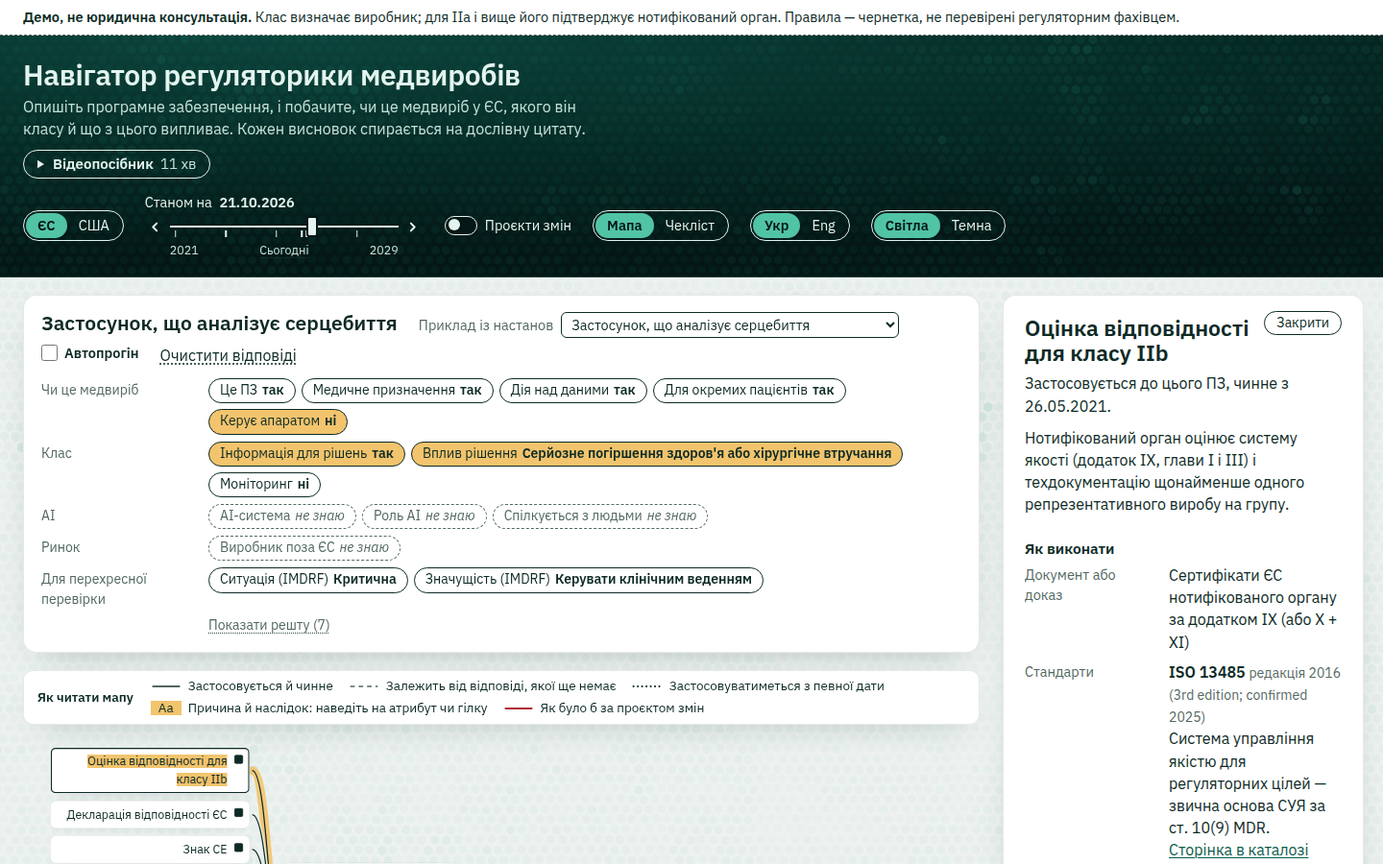
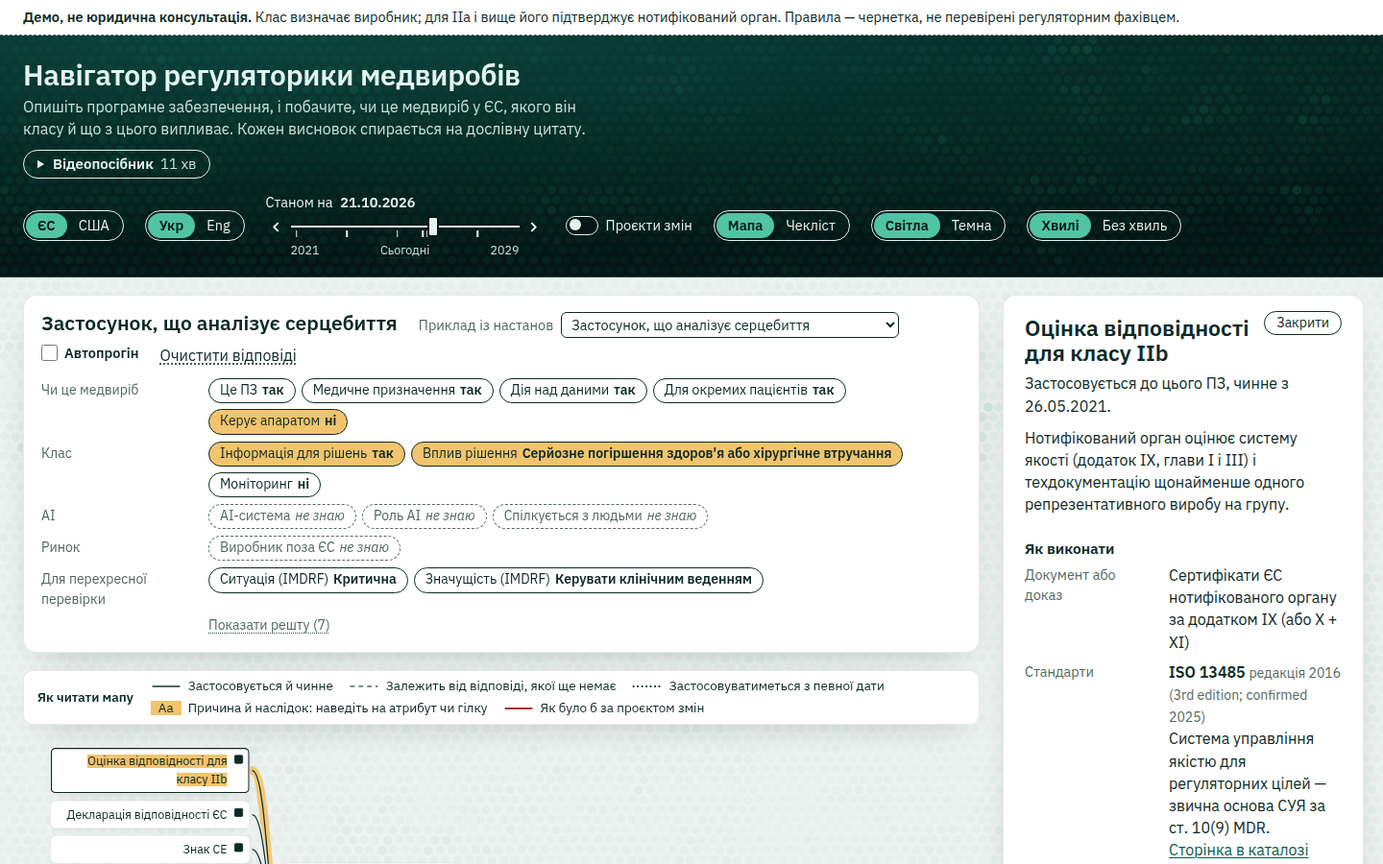
Docs: the lines' twinkle and the plain look; screenshots retaken
DECISIONS U12 (the twinkle in place, in the pigeon's own colours and soft
only in opacity, the plain look and its first paint, the motion and colour
checks). README, SPEC and ARCHITECTURE follow; BUILD_LOG records the
round, the review's findings and the fixes. Screenshots retaken for the
masthead's new order.

Changed region(s): [[0.0938, 0.2178, 0.5938, 0.3111], [0.7188, 0.2178, 0.8438, 0.28]]

diff --git a/docs/DECISIONS.md b/docs/DECISIONS.md
@@ -76,7 +76,7 @@
 | U9 | **Знімок даних — віртуальні модулі Vite**, які будує той самий білдер, що й `pnpm mrn snapshot` (`apps/cli/src/snapshot.ts`): модель (~220 КБ) іде з застосунком, тексти процитованих секцій (~320 КБ) — окремий чанк, що вантажиться з першою цитатою. Окремої копії даних у репозиторії немає. |
 | U10 | **React Flow пропускає події миші крізь вузол**, який не можна ні виділити, ні перетягнути (`pointer-events: none`). Наші вузли тримають кнопки, тож кожен вузол має `style.pointerEvents = "all"`. Знайдено e2e-тестом у Chromium: у happy-dom цього не видно. |
 | U11 | **Червона ручка — проєкти змін** (перемикач «Проєкти змін», `w=1` в URL). На драбині класів — лише коли проєкт її змінює: клас за проєктом обведено (суцільно — визначений, пунктиром — ще можливий), клас, який проєкт виключив би, закреслено; під драбиною словами «За проєктом: …». Листок, який проєкт змінює, має червоний рядок «за проєктом: …» і обведену позначку; ребро до нього червоне, але зберігає візерунок свого стану (чорнило, олівець, крапки). Вимоги, що застосовувалися б лише за проєктом, лишаються на мапі. Гілка пише, скільки пунктів змінює проєкт; питання, потрібні лише проєкту, — червоним пунктиром («Що вирішить за проєктом:»). Картка правила класу й чекліст мають секцію «Якби проєкт ухвалили» з червоною лінією на полі: результат і «що вирішило» за проєктом (дослівні цитати COM(2025) 1023), змінені вимоги, матриця переходів когорти (змінені клітинки червоні), умови узгодженості й приклади MDCG. Колір ніде не єдиний носій сенсу. |
-| U12 | **Вигляд як в інших демо автора** — [CQL demo](https://ytsuhen.github.io/CQL-Demo-Yevenko/) і [First Visit](https://ytsuhen.github.io/Pub-demos/first-visit/) (рішення Андрія, 28.10.2026). Будова екрана та сама (мапа, картка, чекліст), міняється лише вигляд. **Палітра «море»:** світлі й темні токени CQL demo (`--bg`, `--surface`, `--ink`, `--muted`, `--line`, `--accent`, `--amber`, `--fail`, `--sea-*`), схема — за налаштуванням системи, доки людина не вибере «Світла» чи «Темна» перемикачем у шапці (вибір пам'ятається в браузері й ставиться ще до першого малювання маленьким скриптом у `index.html`, а не після завантаження застосунку; у посилання не йде: це вподобання глядача, а не стан опису; шапка лишається темною в обох). Семантика U1 та сама: чорнило — `--ink`, олівець — `--muted` пунктиром, крапки — чорнило крапками, червона ручка — `--fail`, маркер — бурштинова заливка під чорнилом (у темній схемі сам `--amber`; у світлій — світліший відтінок того самого тону, `#f2c46d`, бо темний `--amber` під чорнилом не читається). `--accent` — лише те, що натискають (кнопки, посилання, кільце фокусу), а не стан. Контраст AA перевірено для обох схем і для шапки над найяскравішим шестикутником: текст ≥ 4,5:1, римські цифри виключених класів (великий текст) ≥ 3:1. **Шрифти замість U2:** IBM Plex Sans — наш голос (інтерфейс, пояснення, і заголовок демо: це наш текст); Source Serif 4 — голос закону (дослівні цитати, посилання на джерела, римські цифри класів); JetBrains Mono — хеш секції й зсуви цитати. Усі з `@fontsource`, з кирилицею, офлайн (SIL OFL 1.1). Plex ширший за Arsenal: вузол гілки — 228 px разом із полями острівця (за Arsenal був 196), назви гілок 17 px; розклад і далі рахує d3-hierarchy за виміряними висотами. **Вода з шестикутників** (`lib/waves.ts`, «Adapted from ytsuhen/Pub-demos (first-visit), same author»), як вирішив Андрій після перегляду (28.10, третя версія): **море — під усім, що нижче шапки**, спокійне, у світлій схемі світле й мілке, у темній — глибоке. **Вир — лише в самому центрі мапи, довкола медвиробу:** вода біля вузла пристрою повільно обертається (оберт ≈ 45 с) і згасає в кільці 80 px за колом його кутів; далі море спокійне. **Від медвиробу до гілок біжать голуб'ячі хвильки** (спокійніші з четвертої версії, на прохання Андрія): кожна лінія від пристрою до гілки раз на 10–14 с пускає два гребені (≈ 16 px/с, кожен ≈ ±15 px поперек лінії, м'яко: непрозорість ≈ 0,5, колір не до кінця голубиний), що виходять із краю пристрою й згасають біля гілки. **Від розгорнутої гілки хвилька йде далі** всіма лініями до її вимог, ніби пройшовши крізь острівець (≈ 0,8 с під ним, а не всю його ширину): один гребінь тих самих кольорів, прозоріший (≈ 60 %), згасає біля вимоги; кожна лінія тримає власний шлях до 1020 px, тож довгі лінії до вимог не обрізаються. Кольори — як на голубиній шиї, пурпурово-фіолетовий і зелений: на гребені фіолетовий уздовж лінії й зелений по краях, на наступному навпаки, перехід плавний; не бірюзовий, бо той зливається з водою. Хвильки малює сам шейдер із невеликої текстури, у якій для кожної клітинки записано, наскільки близько лінія, як далеко вздовж шляху від пристрою (для ліній до вимог — шлях іде далі через гілку) і яка це лінія; хвилі біжать потягами з періодом, тож довгі лінії до вимог не розтягують інтервал; біля ліній вир слабшає, щоб хвильки читалися. Сенсу хвильки не несуть. Де вузол пристрою (`data-whirl`) і лінії до гілок (`path[data-wave]`), полотно читає зі сторінки, тож вир і хвильки йдуть за автоматичним розкладом. У другій версії полотно моря саме ставило собі атрибут `data-whirl`, і після першого читання вир крутився довкола центру вікна з радіусом на весь екран — «суцільний водоворот»; тепер атрибути різні, а e2e перевіряє, що центр і радіус виру — це вузол пристрою. **Шапка — темна «річка» в обох схемах**, удвічі повільніша, ніж у другій версії: брижі витягнуті вздовж течії, що несе їх зліва направо (≈ 12–14 px/с). Голуб'ячої хвилі, що проносилася шапкою, більше немає; замість неї — **легенькі вкраплення голуб'ячих шестикутників**: раз на 1,6–2,8 с один шестикутник за 10–14 с наливається й гасне, пурпурово-фіолетовий, на якийсь час у найяскравішу мить зелений, і знову фіолетовий (повільне переливання). Вкраплення з'являються лише там, де в шапці немає тексту чи кнопок, тож світяться майже непрозоро й не зменшують контрасту тексту. **Текст — лише на острівцях:** опис ПЗ, картка автопрогону, легенда, вузли мапи, картка на полі й чекліст — суцільні аркуші з тінню, а між ними видно воду. Лінії мапи лежать на воді, на тонкій смужці паперу: чорнило, олівець, крапки й червона ручка мають той самий контраст, що й на папері (на самій воді бліда лінія «не застосовується» мала б лише ≈ 2,1:1). **Легенда — на самій мапі** (смужка над нею): видна, хоч би що показувала картка на полі, і під карткою автопрогону. Полотно моря заввишки з вікно лишається у вікні, поки сторінка гортається; шестикутники прив'язані до сторінки. Поля малюються WebGL2 одним викликом на кадр; без справжньої відеокарти річка йде на 2D-полотні (≈ десята частина часу сторінки), а море малюється один раз і стоїть; простоюють поза екраном і у фоновій вкладці; при `prefers-reduced-motion` — один статичний кадр. Глибока вода (річка, темне море) приглушена до ×0,62 від яскравості First Visit, світле море — бліда бірюза, спокійніша за темне; текст шапки на річці має AA. Рух перевірено тепловою картою (сума різниць кадрів у Chromium з програмним WebGL): біля пристрою вода рухається в 4–6 разів більше, ніж відкрите море, і вже на відстані 1,4 його півдіагоналі — як море; уздовж ліній до гілок — у 8–12 разів більше; e2e тримає це співвідношення (≥ 3×) і перевіряє, що при `prefers-reduced-motion` два кадри однакові. **Переливання на дію** (`lib/sheen.ts`): натиснутий елемент (кнопка, чип, відповідь, перемикач, крок автопрогону) ≈ 0,8 с переливається фіолетовим у зеленкувато-бірюзовий, як шия голуба; шестикутники відповідають хвилею тих самих кольорів, як рішення в CQL demo підсвічує шестикутники довкола себе: дія під шапкою (зокрема чип, що змінився на кроці автопрогону) — довкола себе в морі; дія в шапці — у річці. Це відгук, а не стан: окремий шар поверх елемента, що нічого не лишає й не несе сенсу. При `prefers-reduced-motion` — нічого, лише звичайне кільце фокусу. Відеопосібник записано до цієї зміни. |
+| U12 | **Вигляд як в інших демо автора** — [CQL demo](https://ytsuhen.github.io/CQL-Demo-Yevenko/) і [First Visit](https://ytsuhen.github.io/Pub-demos/first-visit/) (рішення Андрія, 28.10.2026). Будова екрана та сама (мапа, картка, чекліст), міняється лише вигляд. **Палітра «море»:** світлі й темні токени CQL demo (`--bg`, `--surface`, `--ink`, `--muted`, `--line`, `--accent`, `--amber`, `--fail`, `--sea-*`), схема — за налаштуванням системи, доки людина не вибере «Світла» чи «Темна» перемикачем у шапці (вибір пам'ятається в браузері й ставиться ще до першого малювання маленьким скриптом у `index.html`, а не після завантаження застосунку; у посилання не йде: це вподобання глядача, а не стан опису; шапка лишається темною в обох). **Вигляд без хвиль:** поруч перемикач «Хвилі / Без хвиль» (Андрій попросив plain-версію, яку можна вмикати, як темну й світлу); без хвиль на сторінці немає жодного полотна з шестикутниками — ні моря, ні річки, ні мерехтіння, ні вкраплень; острівці, мапа, шапка й переливання на дію лишаються; працює з обома темами, пам'ятається в браузері й ставиться до першого малювання так само, як тема. Семантика U1 та сама: чорнило — `--ink`, олівець — `--muted` пунктиром, крапки — чорнило крапками, червона ручка — `--fail`, маркер — бурштинова заливка під чорнилом (у темній схемі сам `--amber`; у світлій — світліший відтінок того самого тону, `#f2c46d`, бо темний `--amber` під чорнилом не читається). `--accent` — лише те, що натискають (кнопки, посилання, кільце фокусу), а не стан. Контраст AA перевірено для обох схем і для шапки над найяскравішим шестикутником: текст ≥ 4,5:1, римські цифри виключених класів (великий текст) ≥ 3:1. **Шрифти замість U2:** IBM Plex Sans — наш голос (інтерфейс, пояснення, і заголовок демо: це наш текст); Source Serif 4 — голос закону (дослівні цитати, посилання на джерела, римські цифри класів); JetBrains Mono — хеш секції й зсуви цитати. Усі з `@fontsource`, з кирилицею, офлайн (SIL OFL 1.1). Plex ширший за Arsenal: вузол гілки — 228 px разом із полями острівця (за Arsenal був 196), назви гілок 17 px; розклад і далі рахує d3-hierarchy за виміряними висотами. **Вода з шестикутників** (`lib/waves.ts`, «Adapted from ytsuhen/Pub-demos (first-visit), same author»), як вирішив Андрій після перегляду (28.10, третя версія): **море — під усім, що нижче шапки**, спокійне, у світлій схемі світле й мілке, у темній — глибоке. **Вир — лише в самому центрі мапи, довкола медвиробу:** вода біля вузла пристрою повільно обертається (оберт ≈ 45 с) і згасає в кільці 80 px за колом його кутів; далі море спокійне. **Лінії від медвиробу до гілок тихо мерехтять** (з п'ятої версії, на прохання Андрія: хвильки, що бігли лініями, були надто активні — «щоб вони не ходили, а по всій довжині мерехтіли, тільки ще слабше»). Уздовж кожної лінії, на всю її довжину, то тут, то там один-два шестикутники на кілька секунд беруть голубиний колір, пурпурово-фіолетовий або зелений, і гаснуть; нічого не біжить. Колір шестикутника, що засвітився, — повністю голубиний, один із двох (фіолетовий або зелений, без суміші: посередині між ними сірувато-синій), а слабке мерехтіння лише прозорістю (до ≈ 0,4) і рідкими іскрами: напівпрозорий колір, змішаний з водою, читався як сірувато-синій (так було в першому варіанті п'ятої версії). Фіолетовий темного моря трохи тепліший, ніж у вкраплень у шапці: темна бірюза під напівпрозорим фіолетовим тягне його до синього. **Від розгорнутої гілки так само мерехтять лінії до її вимог**, ще тихіше: іскри рідші й прозоріші (≈ 80 %); кожна лінія тримає власну довжину до 1020 px, тож довгі лінії до вимог мерехтять до кінця. Не бірюзовий, бо той зливається з водою. Мерехтіння малює сам шейдер із невеликої текстури, у якій для кожної клітинки записано, наскільки близько лінія, як далеко вздовж неї і яка це лінія; іскри — повільний шум у просторі й часі (зміна за ≈ 4 с); біля ліній вир слабшає. Сенсу мерехтіння не несе. Де вузол пристрою (`data-whirl`) і лінії мапи (`path[data-wave]`), полотно читає зі сторінки, тож вир і мерехтіння йдуть за автоматичним розкладом. У другій версії полотно моря саме ставило собі атрибут `data-whirl`, і після першого читання вир крутився довкола центру вікна з радіусом на весь екран — «суцільний водоворот»; тепер атрибути різні, а e2e перевіряє, що центр і радіус виру — це вузол пристрою. **Шапка — темна «річка» в обох схемах**, удвічі повільніша, ніж у другій версії: брижі витягнуті вздовж течії, що несе їх зліва направо (≈ 12–14 px/с). Голуб'ячої хвилі, що проносилася шапкою, більше немає; замість неї — **легенькі вкраплення голуб'ячих шестикутників**: раз на 1,6–2,8 с один шестикутник за 10–14 с наливається й гасне, пурпурово-фіолетовий, на якийсь час у найяскравішу мить зелений, і знову фіолетовий (повільне переливання). Вкраплення з'являються лише там, де в шапці немає тексту чи кнопок, тож світяться майже непрозоро й не зменшують контрасту тексту. **Текст — лише на острівцях:** опис ПЗ, картка автопрогону, легенда, вузли мапи, картка на полі й чекліст — суцільні аркуші з тінню, а між ними видно воду. Лінії мапи лежать на воді, на тонкій смужці паперу: чорнило, олівець, крапки й червона ручка мають той самий контраст, що й на папері (на самій воді бліда лінія «не застосовується» мала б лише ≈ 2,1:1). **Легенда — на самій мапі** (смужка над нею): видна, хоч би що показувала картка на полі, і під карткою автопрогону. Полотно моря заввишки з вікно лишається у вікні, поки сторінка гортається; шестикутники прив'язані до сторінки. Поля малюються WebGL2 одним викликом на кадр; без справжньої відеокарти річка йде на 2D-полотні (≈ десята частина часу сторінки), а море малюється один раз і стоїть; простоюють поза екраном і у фоновій вкладці; при `prefers-reduced-motion` — один статичний кадр. Глибока вода (річка, темне море) приглушена до ×0,62 від яскравості First Visit, світле море — бліда бірюза, спокійніша за темне; текст шапки на річці має AA. Рух перевірено тепловою картою (сума різниць кадрів у Chromium з програмним WebGL): біля пристрою вода рухається в 4–6 разів більше, ніж відкрите море, і вже на відстані 1,4 його півдіагоналі — як море; уздовж ліній до гілок — у 6–10 разів більше, до вимог — у 2–3 рази; це близько половини руху хвильок четвертої версії (виміряно на годиннику сторінки, що між знімками крокує рівно на 0,5 с, тож числа не залежать від швидкості програмного WebGL). E2e (на годиннику сторінки, який тест сам крокує, тож повільна машина не змінює того, що рухається між знімками) тримає вир (≥ 2× відкритого моря), шукає на знімках голубиний фіолетовий біля ліній до гілок і до вимог в обох схемах (він то з'являється, то гасне там само, де був, а у відкритому морі його немає ніколи; на першому варіанті п'ятої версії, де мерехтіння було сірим, і на четвертій, де хвильки бігли, цей тест падає) і перевіряє, що при `prefers-reduced-motion` два кадри однакові, а без хвиль сторінка не просить жодного кадру анімації. **Переливання на дію** (`lib/sheen.ts`): натиснутий елемент (кнопка, чип, відповідь, перемикач, крок автопрогону) ≈ 0,8 с переливається фіолетовим у зеленкувато-бірюзовий, як шия голуба; шестикутники відповідають хвилею тих самих кольорів, як рішення в CQL demo підсвічує шестикутники довкола себе: дія під шапкою (зокрема чип, що змінився на кроці автопрогону) — довкола себе в морі; дія в шапці — у річці. Це відгук, а не стан: окремий шар поверх елемента, що нічого не лишає й не несе сенсу. При `prefers-reduced-motion` — нічого, лише звичайне кільце фокусу. Відеопосібник записано до цієї зміни. |
 | U13 | **Автопрогін** (рішення Андрія, 28.10.2026): галочка «Автопрогін» біля «Приклад із настанов» (спершу це була кнопка; галочку Андрій попросив, щоб без неї сторінка лишалася звичайним навігатором) показує рядок автопрогону на початку, на паузі (▶ запускає; фокус переходить на ▶, тож пробіл одразу запускає прогін, а не знімає галочку, яку прокрутка вже сховала; у самому рядку є «×» — вимкнути), і бере поточний опис ПЗ (приклад або відповіді з посилання) за ціль і проходить його з чистого аркуша. **Кроки — чиста функція в ядрі** (`guidedRun`, `packages/core/src/guided.ts`): кожен крок — перше питання `navigate().questions` (перша вирішальна невідома в порядку читання правил), якого прогін ще не минув; відповідь бере з опису, а якої немає — зупиняється й питає просто в картці кроку («Так» / «Ні» / варіанти / «Не знаю»). «Не знаю» лишає атрибут невідомим, і прогін іде до наступного питання. Тож жоден крок не питає вже відомого, і кожне питання — один раз. Перехресна перевірка MDCG у кроки не входить (вона необов'язкова, U5); її відповіді з опису приходять у підсумок. **Закривальний крок «Решта відповідей з опису»** з'являється лише тоді, коли без нього кінець відрізнявся б від `navigate()` на цілі: за тризначної логіки дві відповіді можуть мати значення лише разом (наприклад, «вплив рішення» і «клас апарата» разом виключають IIb, коли «не знаю» лишило відкритими обидва шляхи до нього), і жодна з них поодинці не є вирішальною невідомою, тож питанням не стає. Знайшов це властивісний тест на випадкових описах; на 23 прикладах MDCG і трьох описах, з якими показують демо, такого кроку немає (ні з «не знаю», ні з відповідями на відкриті питання). **Картка кроку:** «Крок k з N» (N — для відповідей, відомих зараз; питання, що чекає, рахується як «не знаю», доки на нього не відповіли), питання з `attributes.json` і відповідь («З опису» / «Ваша відповідь» / «Не знаю»), що змінилося (можливі результати правил у порядку екрана — кваліфікація, клас, нотифікований орган, AI Act — і скільки вимог застосовується), вузол, що вирішив (перший листок правила, який крок визначив, з його дослівною цитатою, перевіреною в браузері; якщо змінилися лише вимоги — сама вимога з цитатою правової основи). **Підсумок:** результат кожного правила, що лишилося невідомим, і які НПА виконувати — застосовні вимоги, згруповані за актом (регламенти, потім рішення; настанови й веб-сторінки — ні) і статтею з їхніх власних цитат, з датами чинності станом на обрану дату. Нового юридичного тексту немає: назви вимог — наші слова з каталогу, посилання на статті — з `sections.json`. **Відтворення:** крок ≈ 4 с, пауза, «Назад» і «Далі» (не далі питання, що чекає), ←/→ і пробіл (не тоді, коли фокус у полі вводу чи на кнопці); мапа й чекліст показують стан кроку, змінені чип, гілки й правила переливаються (U12). Відповідь, дана деінде на екрані під час прогону (чип, мапа, чекліст), іде в прогін; Зняти галочку — рядок зникає, а опис лишається разом із відповідями, даними дорогою. Крок — в адресі (`g` позиція, `gt` ціль, `ga` відповіді, «~» — «не знаю»; U8); посилання відкриває той самий крок на паузі. Картка — `aria-live`. Спершу вона стояла на полі замість картки прикладу й зсувала все; після перегляду (28.10) Андрій вирішив поставити її між описом ПЗ і мапою (чи чеклістом) на будь-якому екрані. Вона мінімальна (Андрій, 28.10: «поле автопрогону теж треба мінімізувати»): один рядок — «Автопрогін», де прогін, доріжка кроків, кнопки-іконки «Назад», «Відтворити» (натиснута — пауза; наприкінці — «Почати знову») і «Далі» (назви — їхні мітки, клавіші ←/→ і пробіл — у підказках) та кнопка, що згортає картку до цього рядка (на питанні, що чекає відповіді, картка розгортається сама, а рядок тоді оголошує, де прогін); під ним дві колонки — ліворуч питання й відповідь, праворуч що змінилося й що вирішило (на телефоні — одна колонка). Цитату вузла згорнуто під «Дослівна цитата, перевірена в браузері», перевірка та сама; у підсумку кожен акт згорнуто до назви й кількості статей. Натиснули «Автопрогін» — сторінка сама прокручується до картки (і ще раз, коли мапа під нею розклалася), тож мапа одразу під нею; посилання на крок лишає сторінку вгорі, з банером. |
 
 ## Відкриті питання для регуляторного фахівця

diff --git a/docs/ARCHITECTURE.md b/docs/ARCHITECTURE.md
@@ -250,11 +250,11 @@ market stands on exactly one branch.
 | `src/components/Proposal.tsx` | `ProposalSection` ("if the proposal were adopted": result and what decided it under the revision, changed requirements, the cohort's transition matrix with its coherence conditions, the MDCG examples; heading level and folding set by the host), `proposalWords(leaf, t, lang)` |
 | `src/components/Questions.tsx` | `useAsk` (open an attribute's editor), `QuestionList`, `SupportList` (shared by the card, the proposal section, the map) |
 | `src/components/Checklist.tsx` | The same content as a document: rule results, open questions with inline answers, each branch's obligations; with proposals on, the same red-pen lines and the proposal's section |
-| `src/components/Explain.tsx`, `Quote.tsx`, `Shell.tsx`, `ui.tsx` | Witness lists (heading level set by the host); quotes with context and the browser's check (the hash and offsets in mono); banner, masthead (a dark band over the river; market, as-of slider with key dates, proposals, view, language, light or dark theme), next-stage placeholder, footer; shared controls, the device's name and `rich` (a message with elements in its placeholders) |
-| `src/lib/waves.ts` | `startWaves(canvas, host, "webgl2" \| "2d", { water: "sea" \| "river", palette?, origin?, geometry?, geometryKey?, sprinkles?, avoid?, animate2d?, anyGl?, share? })` → `{ renderer, light(x, y, reach), stop() }`: a hexagon field (DECISIONS U12; adapted from ytsuhen/Pub-demos first-visit) — the calm sea (its `palette` read each frame, `SHALLOW` or `DEEP`; its grid fixed to the page through `origin`; in WebGL2, from `geometry` — read again at once when `geometryKey` changes, else every 400 ms — a whirlpool right round the device and calm trains of pigeon wavelets along the lines from it to the branches and on, fainter, along the lines that carry them (`from`) to the open branch's requirements, drawn by the shader from a small texture of those lines and their way along from the device; the canvas reports `data-whirlpool`, `data-wavelines` (lines from the device and onward) and `data-water` (which palette) for tests) or the slow river whose ripples run along a current, with pigeon hexagons here and there (`sprinkles`) kept off the boxes `avoid` returns (its text); one instanced draw a frame, each light (a burst, a sprinkle) a uniform with its own colour and opacity; idle off screen and in a hidden tab, one static frame without lights under reduced motion; without a graphics card the 2D painter takes at most `share` of the page's time, or draws once (`animate2d: false`) |
+| `src/components/Explain.tsx`, `Quote.tsx`, `Shell.tsx`, `ui.tsx` | Witness lists (heading level set by the host); quotes with context and the browser's check (the hash and offsets in mono); banner, masthead (a dark band over the river; market and language, as-of slider with key dates, proposals, view, light or dark theme, waves or plain), next-stage placeholder, footer; shared controls, the device's name and `rich` (a message with elements in its placeholders) |
+| `src/lib/waves.ts` | `startWaves(canvas, host, "webgl2" \| "2d", { water: "sea" \| "river", palette?, origin?, geometry?, geometryKey?, sprinkles?, avoid?, animate2d?, anyGl?, share? })` → `{ renderer, light(x, y, reach), stop() }`: a hexagon field (DECISIONS U12; adapted from ytsuhen/Pub-demos first-visit) — the calm sea (its `palette` read each frame, `SHALLOW` or `DEEP_SEA` — the river's `DEEP` with a warmer violet for the twinkle; its grid fixed to the page through `origin`; in WebGL2, from `geometry` — read again at once when `geometryKey` changes, else every 400 ms — a whirlpool right round the device and a soft pigeon twinkle all along the lines from it to the branches and, fainter and rarer, along the lines that carry them on (`from`) to the open branch's requirements — nothing running, hexagons lighting and fading in place, in the pigeon's own colours and soft only in their opacity — drawn by the shader from a small texture of those lines and their way along; the canvas reports `data-whirlpool`, `data-wavelines` (lines from the device and onward) and `data-water` (which palette) for tests) or the slow river whose ripples run along a current, with pigeon hexagons here and there (`sprinkles`) kept off the boxes `avoid` returns (its text); one instanced draw a frame, each light (a burst, a sprinkle) a uniform with its own colour and opacity; idle off screen and in a hidden tab, one static frame without lights under reduced motion; without a graphics card the 2D painter takes at most `share` of the page's time, or draws once (`animate2d: false`) |
 | `src/lib/sheen.ts` | `sheen(el)` (the iridescent layer over an element, following it while it moves, and a light on the waves), `sheenKeys(keys)` (every `[data-flash]` with one of the keys), `installSheen(document)` (a delegated click listener), `addLightSink` (a field of waves hears every sheen), `reducedMotion` |
-| `src/components/Waves.tsx` | `HexWaves({ water })`: the river behind the masthead (`.sea-band`; its sprinkles kept off the masthead's text and controls), or the sea under the work area (`.page-sea`: a canvas the window's height that stays in view as the page scrolls; it follows the colour scheme and reads the map from the page — `.react-flow [data-whirl]`, `path[data-wave]`, and the viewport's transform to notice a drag or a zoom); WebGL2 first, a fresh canvas for the 2D painter when it fails; lights its hexagons round an action inside its area |
-| `src/lib/theme.ts` | `useTheme()` (the scheme shown and a way to choose light or dark, remembered in `localStorage`; until a choice, the system's), `isDark()`, `applyStoredTheme()`; a small inline script in `index.html` puts the stored choice on the root before the first paint: the choice is `data-theme` on the root, read by the stylesheet's `light-dark()` tokens and the sea's palette |
+| `src/components/Waves.tsx` | `HexWaves({ water })` (nothing in the plain look): the river behind the masthead (`.sea-band`; its sprinkles kept off the masthead's text and controls), or the sea under the work area (`.page-sea`: a canvas the window's height that stays in view as the page scrolls; it follows the colour scheme and reads the map from the page — `.react-flow [data-whirl]`, `path[data-wave]`, and the viewport's transform to notice a drag or a zoom); WebGL2 first, a fresh canvas for the 2D painter when it fails; lights its hexagons round an action inside its area |
+| `src/lib/theme.ts` | `useTheme()` (the scheme shown and a way to choose light or dark, remembered in `localStorage`; until a choice, the system's), `isDark()`, `useWaves()` / `wavesOn()` (the hexagon waves or the plain look, `data-waves` on the root, remembered; every user follows the root), `applyStoredTheme()`; a small inline script in `index.html` puts the stored choice on the root before the first paint: the choice is `data-theme` on the root, read by the stylesheet's `light-dark()` tokens and the sea's palette |
 | `src/i18n/dict.ts` | Every UI string in Ukrainian and English, with plural forms |
 
 Tests: `apps/web/test` (vitest; components under happy-dom) — view model (proposals included), layout (no overlap,
@@ -264,10 +264,15 @@ section and the checklist's red pen. `apps/web/e2e` (`pnpm e2e`, not in `verify`
 `/MedRegNav/` in a preinstalled Chromium — offline, no console errors, inline answers, verified quotes, the as-of step
 into 2 August 2028, the proposals switch, the checklist, a phone viewport; `design.e2e.ts` checks the look (U12): the
 three fonts, the river in the masthead and the sea under the work area on a 2D canvas and in WebGL2 (a software one
-allowed by `__wavesAnyGL`; there the whirlpool's centre and radius are the device node's, wavelets run along the six
-lines to the branches and on along every line of the open branch, and screenshots show the water by the device moving
-well above the open sea, which stays calm, and the same frame twice under reduced motion), the sea in view as a long
-page scrolls, no canvas inside the islands, the theme switch (light and dark, the sea's water with it, remembered), the
+allowed by `__wavesAnyGL`; there the whirlpool's centre and radius are the device node's, the six lines to the
+branches and every line of the open branch twinkle — screenshots find the pigeon's violet beside the lines to the
+branches and on to the requirements, in both schemes, coming and going where it is (not carried along a line), and
+never in the open sea — the water by the
+device moves well above the open sea, which stays calm, and the same frame comes twice under reduced motion; these
+measures run on a page clock the test steps, so a slow software renderer does not change what moves between shots), the sea in
+view as a long page scrolls, no canvas inside the islands, the theme switch (light and dark, the sea's water with it,
+remembered), the plain look (no canvas and no animation frame asked for, with either theme, remembered), both choices
+on the root before the app's script, the
 legend on the map beside a card and during the guided run, the sheen and its absence under reduced motion, every map label
 inside its node at 1440 and 390 px; `guided.e2e.ts` walks the guided run (U13), with the card brought to the top on a
 press and the page left at its banner by a link, and the card folded down to its one row while the run goes on, opening

diff --git a/docs/BUILD_LOG.md b/docs/BUILD_LOG.md
@@ -525,4 +525,25 @@ README про перехідні положення каже лише загал
   під острівцем; слабшає лише прозорість; власна довжина кожної лінії до 1020 px; тема — скриптом у `index.html` до
   першого малювання; при перетягуванні мапа ліній лише зсувається. Нові тести: клавіші одразу після галочки, тема без
   скрипту застосунку, юніт-тест мапи ліній. Перевірено: `pnpm verify` (194 тести), `pnpm e2e` (30 тестів), знімки.
+- **П'ята версія** (28.10): ти написав, що хвилі від пристрою до гілок усе ще надто активні — щоб вони не «ходили»,
+  а по всій довжині мерехтіли, ще слабше; і щоб була plain-версія без хвиль, яку можна вмикати, як темну й світлу.
+  Зроблено: гребені, що бігли, прибрав; лінії до гілок і до вимог розгорнутої гілки тепер тихо мерехтять на місці
+  (розкидані шестикутники повільно беруть фіолетовий чи зелений і гаснуть, непрозорість до ≈ 0,4); у шапці — перемикач
+  «Хвилі / Без хвиль», окремий від теми, тож plain буває і світлим, і темним; без хвиль на сторінці немає жодного
+  полотна. Вибір пам'ятає браузер і ставить ще до першого малювання. Агент-рецензент знайшов: у темній схемі
+  мерехтіння було сірувато-синім, а не голубиним (колір лише наполовину ставав фіолетовим, а темна бірюза під ним
+  тягнула його до синього), лінії до вимог майже не мерехтіли, на телефоні новий перемикач додав шапці п'ятий рядок, а
+  тест руху проходив і без мерехтіння (його вистачало й самого виру). Виправлено: шестикутник, що засвітився, бере
+  повний голубиний колір, а слабкість — у прозорості; фіолетовий темного моря трохи тепліший (вкраплення в шапці
+  лишилися як були); «Укр / Eng» стоїть поруч з «ЄС / США», і шапка на телефоні має чотири рядки. Повторна перевірка
+  показала, що мерехтіння вийшло спокійнішим за четверту версію лише на третину, частина іскор була каламутною сумішшю
+  фіолетового й зеленого, а тест не помітив би хвильок, що біжать. Тепер іскри рідші й повільніші (на лініях до вимог
+  ще рідші), кожна або фіолетова, або зелена; рух біля ліній до гілок — близько половини четвертої версії (на
+  годиннику сторінки, що крокує рівно на 0,5 с: 4,2–4,5 проти 8,8–9,6; відкрите море 0,46–0,68, як і було). Нові
+  тести: на знімках біля ліній до гілок і до вимог в обох схемах є голубиний фіолетовий, що з'являється й гасне там
+  само, де був, а у відкритому морі його немає (на першому варіанті цієї версії й на четвертій тест падає); без хвиль
+  сторінка не просить жодного кадру анімації. Тести руху тепер ідуть на годиннику сторінки, який крокує сам тест:
+  на завантаженій машині старий тест відкритого моря якось упав (3,3 за межі 3), бо кадри розходилися в часі.
+  Переливання на натиснутому без хвиль лишив: це відгук на дію, а не хвилі; скажи, якщо прибрати й його. Перевірено:
+  `pnpm verify` (194 тести), `pnpm e2e` (33 тести, і під навантаженням), знімки.
 - **Не зроблено:** гілку не злито в main і Pages не запускано — це твій крок після перегляду.

diff --git a/README.md b/README.md
@@ -51,8 +51,9 @@
   перевіряє кожну, а браузер повторює перевірку й показує її результат під цитатою.
 - **Аналіз правил.** Повне покриття простору атрибутів (кожна комбінація відповідей, «не знаю» включно, дає клас або
   явну множину класів), MC/DC для кожного листка правила, «що як» для проєкту змін; 23 еталонні приклади MDCG проходять.
-- Українська й англійська; світла й темна схеми — за системою або перемикачем у шапці (вибір пам'ятається); чекліст як
-  повна альтернатива мапі (телефон, екранні читачі); офлайн: жодних CDN, зовнішніх шрифтів чи запитів.
+- Українська й англійська; світла й темна схеми — за системою або перемикачем у шапці, і вигляд без хвиль (обидва
+  вибори пам'ятаються); чекліст як повна альтернатива мапі (телефон, екранні читачі); офлайн: жодних CDN, зовнішніх
+  шрифтів чи запитів.
 
 ## Чого не вміє
 
@@ -168,7 +169,7 @@ sha256, витягнутий текст):
 повторне використання дозволено за рішенням Комісії 2011/833/ЄС, вміст сайтів Єврокомісії — за CC BY 4.0. Зміни:
 витягнуто текст, нормалізовано пробіли й символи, прибрано службові маркери консолідації; оригінали збережено без змін.
 Шрифти IBM Plex Sans, Source Serif 4 і JetBrains Mono — SIL Open Font License 1.1; React Flow — MIT. Вигляд (палітра
-«море»: спокійне море з шестикутників під усім, що нижче шапки, з виром лише довкола медвиробу й голуб'ячими хвильками
-від нього до гілок і далі до вимог розгорнутої гілки, текст — на острівцях; у шапці — повільна річка з голуб'ячими
-вкрапленнями) — як в інших демо автора:
+«море»: спокійне море з шестикутників під усім, що нижче шапки, з виром лише довкола медвиробу й тихим голуб'ячим
+мерехтінням уздовж ліній до гілок і до вимог розгорнутої гілки, текст — на острівцях; у шапці — повільна річка з
+голуб'ячими вкрапленнями; хвилі можна вимкнути) — як в інших демо автора:
 [CQL demo](https://ytsuhen.github.io/CQL-Demo-Yevenko/) і [First Visit](https://ytsuhen.github.io/Pub-demos/first-visit/).

diff --git a/docs/SPEC.md b/docs/SPEC.md
@@ -71,15 +71,15 @@
 атрибута; поруч — питання, що це вирішить. Картка «як виконати» збоку: вимога → документ/доказ → стандарт → хто → з
 якої дати + цитата з посиланням. Повзунок «станом на» і перемикач «проєкти змін». Чекліст — повна альтернатива карті з
 тих самих даних (телефон, екранні читачі). Українська за замовчуванням, EN — перемикачем; світла чи темна схема — за
-системою або перемикачем у шапці. Банер-дисклеймер завжди.
+системою або перемикачем у шапці, а хвилі можна вимкнути (вигляд без хвиль). Банер-дисклеймер завжди.
 Розклад графа — `d3-hierarchy`, без ручних координат.
 
 Як це втілено (DECISIONS U1–U13): у вузлі пристрою — драбина класів I · IIa · IIb · III, де визначений клас виділено
 маркером, а можливі — підкреслено пунктиром; чорнило — усталене, олівець — чекає відповіді, крапки — з дати, маркер —
 причина й наслідок, червона ручка — проєкти змін. Що де показати, каже `data/navigator.json`; кожну цитату браузер
 перевіряє за sha256 секції. Ринок США — заглушка «наступний етап». Вигляд — як в інших демо автора (палітра «море»:
-спокійне море з шестикутників під усім, що нижче шапки, з виром лише довкола медвиробу й голуб'ячими хвильками від
-нього до гілок; текст на острівцях; повільна річка з голуб'ячими вкрапленнями в шапці; коротке переливання на дію;
+спокійне море з шестикутників під усім, що нижче шапки, з виром лише довкола медвиробу й тихим голуб'ячим мерехтінням
+уздовж ліній мапи; текст на острівцях; повільна річка з голуб'ячими вкрапленнями в шапці; коротке переливання на дію;
 U12). «Автопрогін» проходить опис з чистого аркуша питаннями навігатора, з мінімальною карткою кроку між описом і мапою
 й підсумком «які акти виконувати» (U13).
 
